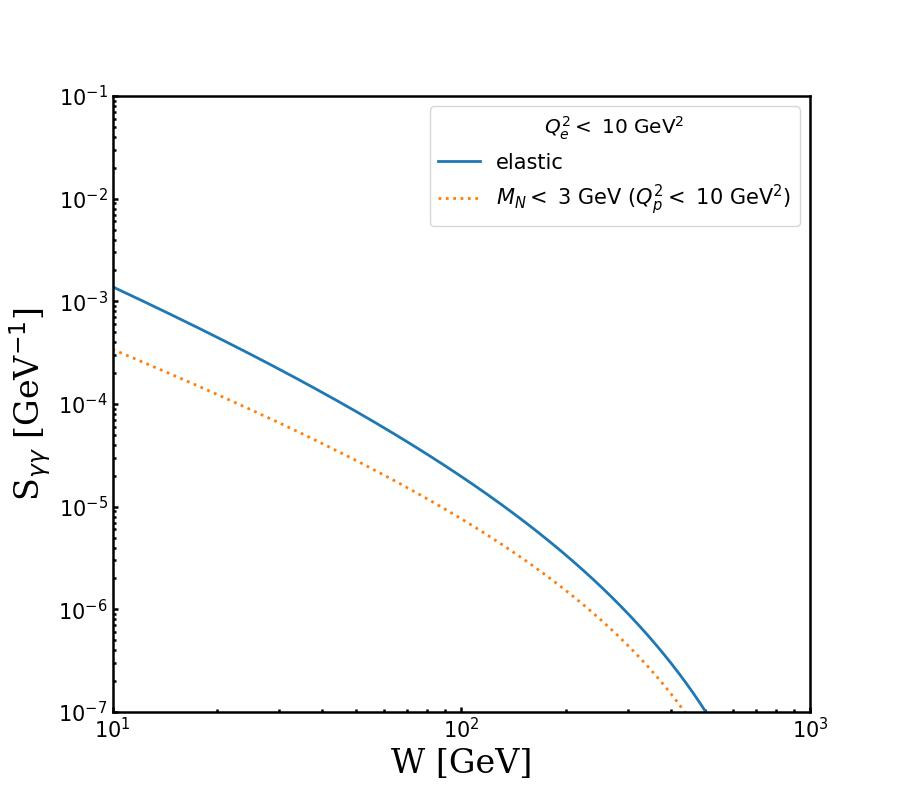
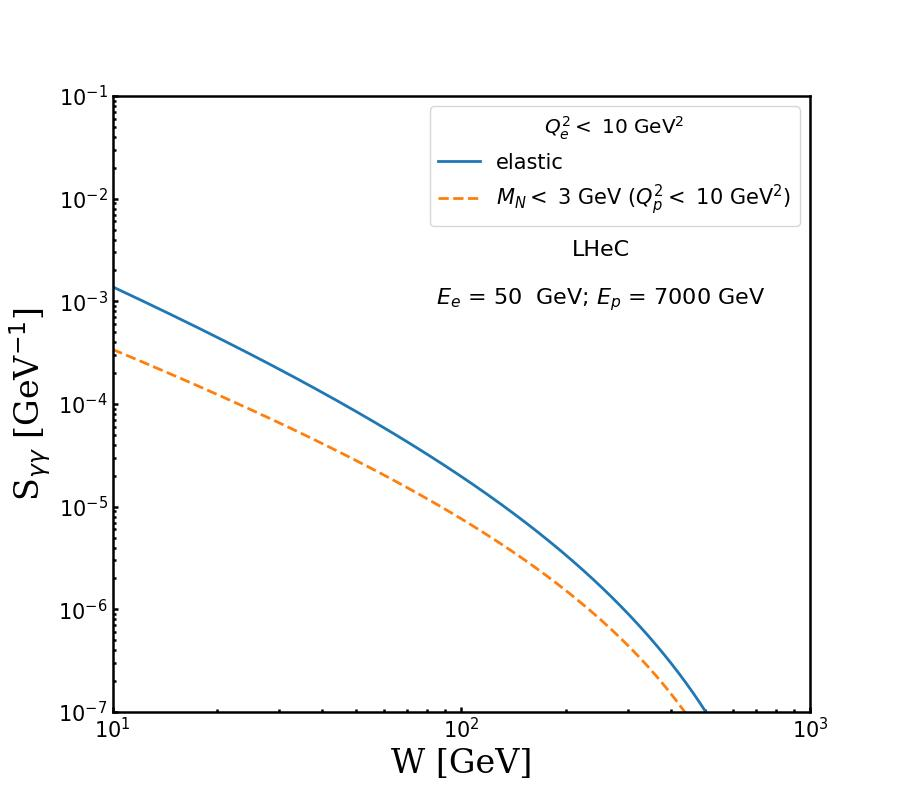
syy_3_10_10
syy_3_10_10

diff --git a/syy_Corrected_with_MN2_mMin2_q2min_25April_ALLM/Plot_Hamzeh_Final_Hadi_3_10_10.py b/syy_Corrected_with_MN2_mMin2_q2min_25April_ALLM/Plot_Hamzeh_Final_Hadi_3_10_10.py
@@ -40,12 +40,19 @@ ax.set_ylim(1.e-7, 1.e-1)
 inel_label = ('$M_N<$ ${{{:g}}}$ GeV').format(inel[0]) + (' ($Q^2_p<$ ${{{:g}}}$ GeV$^2$)').format(inel[2])
 title_label = ('$Q^2_e<$ ${{{:g}}}$ GeV$^2$').format(10,np.log10(inel[1]))
 plt.loglog(wvalues[3][:303], elas[3][:303], linestyle = 'solid',  linewidth=2, label = 'elastic')
-plt.loglog(wvalues[3][:303], inel[3][:303], linestyle = 'dotted', linewidth=2, label = inel_label)
+plt.loglog(wvalues[3][:303], inel[3][:303], linestyle = 'dashed', linewidth=2, label = inel_label)
 #plt.grid()
 
 
 plt.legend(title = title_label)
 
+
+# Add additional information
+info_text = "LHeC"
+plt.text(0.70, 0.75, info_text, transform=ax.transAxes, ha='center', va='center', fontsize=16, color='black')
+
+info_text_2 = r"$E_e$ = 50  GeV; $E_p$ = 7000 GeV"
+plt.text(0.70, 0.67, info_text_2, transform=ax.transAxes, ha='center', va='center', fontsize=16, color='black')
 
 
 # Save the output values in a text file
